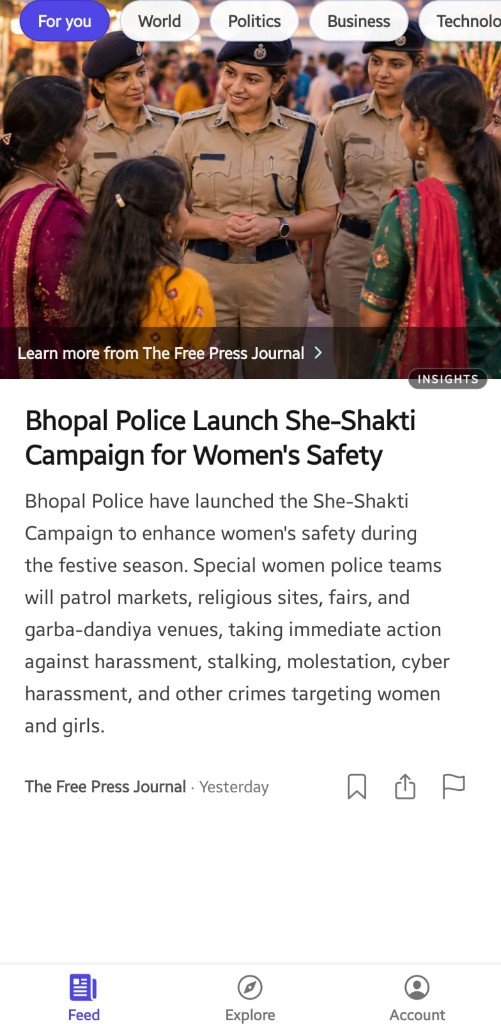
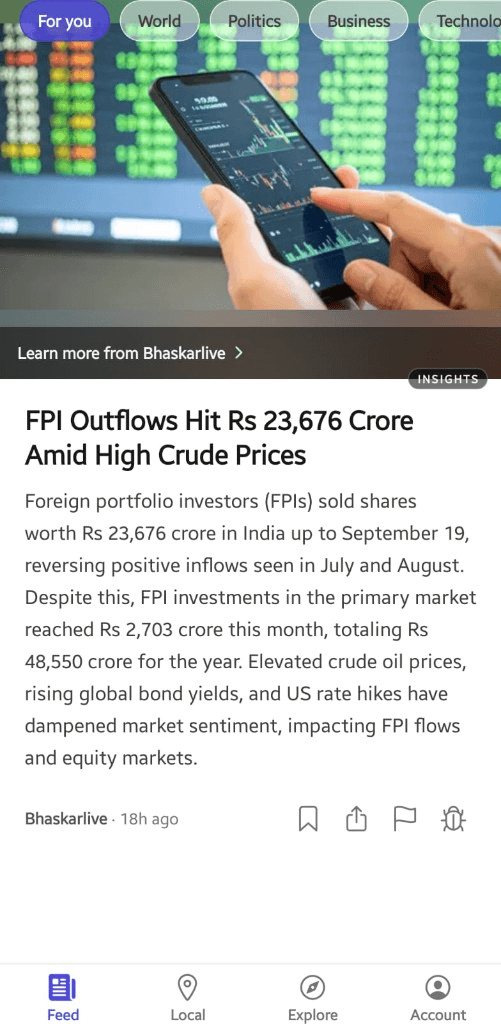
Update Insights home screenshots (feed, explore, account, local)

diff --git a/src/app/apps/insights/page.tsx b/src/app/apps/insights/page.tsx
@@ -153,6 +153,10 @@ function Hero() {
                   src: "/apps/insights/screenshots/03-account.png",
                   alt: `${app.name} account and preferences`,
                 },
+                {
+                  src: "/apps/insights/screenshots/04-local.png",
+                  alt: `${app.name} local news view`,
+                },
               ]}
             />
             {/* Subtle behind-phone accent */}
@@ -247,6 +251,10 @@ function ScreenshotsStrip() {
       src: "/apps/insights/screenshots/03-account.png",
       alt: "Account and preferences",
     },
+    {
+      src: "/apps/insights/screenshots/04-local.png",
+      alt: "Local news near you",
+    },
   ];
   return (
     <section className="border-t border-slate-100 bg-white">
@@ -260,7 +268,7 @@ function ScreenshotsStrip() {
           </h2>
         </div>
 
-        <div className="mt-14 grid grid-cols-1 gap-8 sm:grid-cols-2 lg:grid-cols-3">
+        <div className="mt-14 grid grid-cols-1 gap-8 sm:grid-cols-2 lg:grid-cols-4">
           {shots.map((s) => (
             <div key={s.src} className="flex justify-center">
               <PhoneFrame src={s.src} alt={s.alt} />
